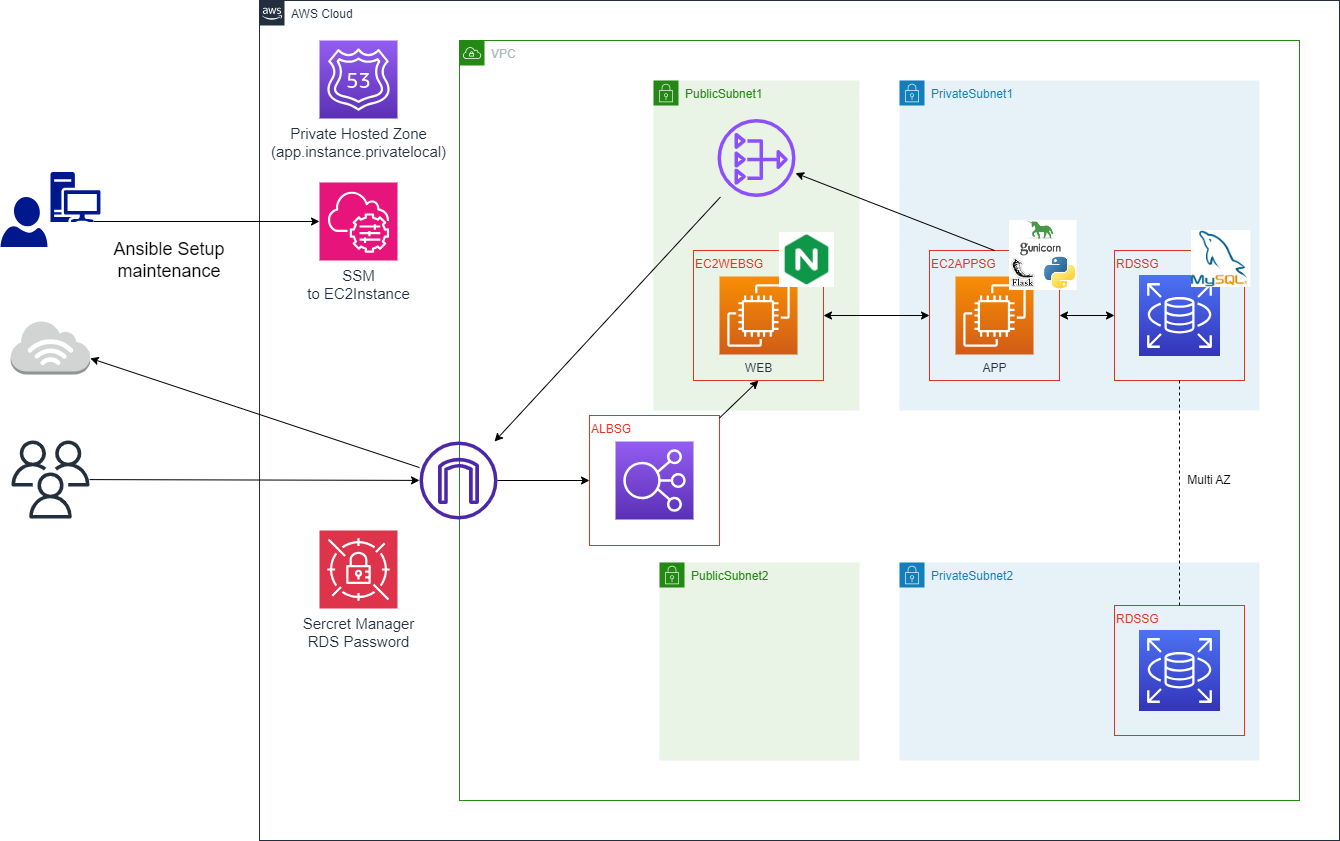
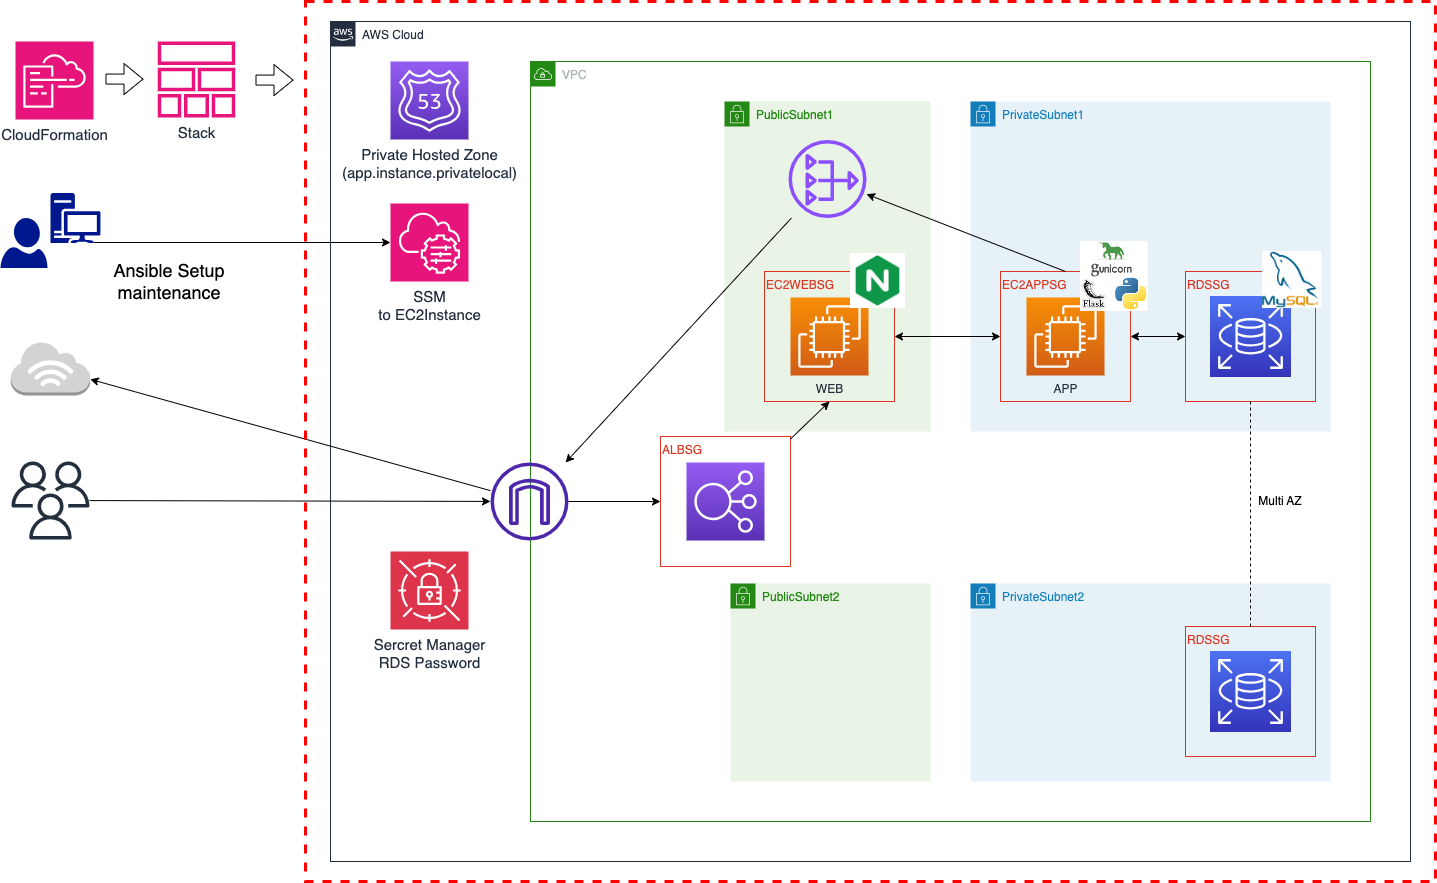
mdファイルの更新と構成図の修正

diff --git a/02-Ansible_APP_Deploy.md b/02-Ansible_APP_Deploy.md
@@ -57,201 +57,67 @@ RDSのみスタック実行時間を要するため分離。<br>
 [手動デプロイ](https://github.com/tomi050403/AWS_Portfolio/blob/main/01-APP_Deploy.md#%E3%82%A2%E3%83%97%E3%83%AA%E3%82%B1%E3%83%BC%E3%82%B7%E3%83%A7%E3%83%B3%E3%83%87%E3%83%97%E3%83%AD%E3%82%A4)にて実施した内容について、ansibleのplaybookを作成。<br>
 
 ## 準備
-### コントロールノードの準備（Ansible実行環境構築）
-pyenv poetry
-### EC2インスタンス（ターゲットノード）への接続設定
-通常ターゲットノードへの接続にssh接続を行うため、SGの許可設定などが必要になるが、ssm経由で実行可能な方法があったため、ssm経由でplaybookを実行する構成とする。
+### コントロールノード（Ansible実行環境構築）
 
-
-## デプロイ（およびRoles詳細）
-今回はsetup.ymlにplaybookを記載し、
-ディレクトリ構成
-setup.yml
-
-|roles||
+|||
 | :--- | :--- |
-|APP_01_Initial||
-|APP_02_Pyenv_Install||
-|APP_03_Python_install||
-|APP_04_Application_install_setup||
-|APP_05_Setup_Gunicorn||
+|OS| Amazon Linux 2 (Kernel 4.14.355)|
+|仮想化環境| Hyper-V (自宅サーバ)|
+|Ansible| v2.18.1|
+|Python|3.12 (pyenv + Poetry)|
 
-### 
-playbook
+### ターゲットノード（EC2インスタンス）への接続設定
+通常ansibleにてターゲットノードへssh接続するため、公開IPやSGの許可設定などが必要になるが、ssm経由で実行可能な方法があったため、ssm経由でplaybookを実行する構成とする。
+
+[hosts.ini](02-Ansible_APP_Deploy/02_ansible/inventoryes/hosts.ini)<br>
+
+上記箇所に下記のようにhosts.iniファイルを作成
+
+~~~
+[app_targetnode]
+EC2AppInstance ansible_host=<APPインスタンスID>
+
+[web_targetnode]
+EC2WebInstance ansible_host=<WEBインスタンスID>
+
+[all:vars]
+ansible_user='ec2-user'
+ansible_become=true
+ansible_ssh_private_key_file=<プロジェクト用keyfileパス>
+ansible_python_interpreter=/usr/bin/python3.9
+ansible_ssh_common_args=-o StrictHostKeyChecking=no -o ProxyCommand="sh -c \"aws ssm start-session --target %h --document-name AWS-StartSSHSession --parameters 'portNumber=%p'\""
+~~~
+
+## デプロイ
+### roles
+[手動デプロイ](01-APP_Deploy.md)にて実施した内容を下記のようにroles定義<br>
+
+|roles|手動デプロイ項番|対象|
+| :--- | :--- | :--- |
+|APP_01_Initial|01_Initial|APP|
+|APP_02_Pyenv_Install|02 pyenv-install|APP|
+|APP_03_Python_install|03_Python-install|APP|
+|APP_04_Application_install_setup|04_Application-install|APP|
+|APP_05_Setup_Gunicorn|05_Application-setup|APP|
+|WEB_01_Initial|01 set-up-websv|WEB|
+
+### vars
+[vars.yml](vars/vars.yml)<br>
+roles内で使用するユーザ名やファイルパス、アプリケーションバージョンなどの定義ファイル<br>
+[sec.yml](vars/sec.yml)<br>
+roles内で使用するDB情報など秘匿したい情報を定義したファイル<br>
+ansible-vault encrypt [ファイル名]コマンドにて暗号化している。<br>
+
+### 実行
+setup.ymlに上記内容のplaybookを記載し、下記コマンドで実行する。<br>
+
+~~~
+ansible-playbook -i inventoryes/hosts.ini setup.yml --ask-vault-pass
+~~~
 
 ## デプロイ後の確認
 
-
-## ⅰ APP-SV
-APPサーバへの設定
-## 01_Initial
-### 1 dnf update
-dnfのアップデート
-~~~
-sudo dnf update -y
-~~~
-
-### 2 Install-Dep-Packages
-必要パッケージのインストール
-~~~
-sudo dnf install -y git gcc zlib-devel bzip2-devel readline-devel sqlite sqlite-devel openssl-devel tk-devel libffi-devel xz-devel
-~~~
-
-## 02 pyenv-install
-### 1 clone pyenv
-pyenvのインストール
-~~~
-git clone https://github.com/pyenv/pyenv.git ~/.pyenv
-~~~
-
-### 2 Passing by pyenv
-#### 2-1 Add pyenv to the PATH
-pyenv利用のためパスを通す_1
-~~~
-echo 'export PATH="$HOME/.pyenv/bin:$PATH"' >> ~/.bashrc
-~~~
-
-#### 2-2 Add the pyenv init the shell
-pyenv利用のためパスを通す_2
-~~~
-echo 'eval "$(pyenv init -)"' >> ~/.bashrc
-~~~
-
-#### 2-3 Run source ~/.bashrc
-pyenv利用のためパスを通す_3
-~~~
-source ~/.bashrc
-~~~
-
-## 03_Python-install
-### 1 pyenv install
-python 3.12.1のインストール
-~~~
-pyenv install 3.12.1
-~~~
-### 2 pyenv global set
-python 3.12.1のグローバル設定
-~~~
-pyenv global 3.12.1
-~~~
-### 3 python version check
-python 3.12.1がグローバル設定されていることの確認
-~~~
-pyenv versions
-~~~
-
-### 4 Poetry install
-poetryインストール
-~~~
-curl -sSL https://install.python-poetry.org | python3 - --version 1.8.4
-~~~
-### 5 Poetry install check
-poetryバージョンチェック
-~~~
-poetry --version
-~~~
-
-## 04_Application-install
-### 1 clone application
-サンプルアプリケーションのインストール
-~~~
-git clone https://github.com/tomi050403/flask-app.git
-~~~
-
-## 05_Application-setup
-### 1 move directory
-プロジェクトディレクトリへ移動
-~~~
-cd flask-app
-~~~
-
-### 2 Setup env file
-サンプルアプリケーション用の.envファイル作成（.envについてはサンプルアプリケーションリポジトリ参照）
-[自作サンプルアプリケーション](https://github.com/tomi050403/flask-app.git)<br>
-~~~
-nano flaskr/.env
-~~~
-
-### 3 export FLASK_APP
-環境変数:FLASK_APPにアプリケーション名を設定
-~~~
-export FLASK_APP=flaskr
-~~~
-
-### 4 poetry install
-プロジェクトで利用されるpythonパッケージをインストール
-~~~
-poetry install
-~~~
-
-### 5 poetry shell
-仮想環境起動
-~~~
-poetry shell
-~~~
-
-### 6 frusk-run
-flask runコマンドでアプリケーション動作確認
-~~~
-flask run -h 0.0.0.0
-~~~
-
-## Flask接続確認
-
-### CFnにて作成したAppServerのパブリックIPを確認。
-![image](/01-APP_Deploy/01-Figure/01_app_ip.png)  <br>
-### EC2Appにブラウザ接続し、起動出来ていることを確認
-![image](/01-APP_Deploy/01-Figure/02_app_flaskrun.png)  <br>
-
-
-## 続けてapサーバとwebサーバを分離する。<br>06_Set-up-gunicorn
-### 1 gunicorn install
-gunicornのインストール
-~~~
-poetry add gunicorn
-~~~
-
-### 2 gnicorn run
-アプリケーションの起動
-~~~
-gunicorn -b 0.0.0.0 flaskr:app
-~~~
-
-## ⅱ WEB-SV
-WEBサーバへの設定
-## 01 set-up-websv
-### 1 nginx install
-nginxのインストール
-~~~
-sudo dnf -y install nginx
-~~~
-
-### 2 set up nginx config
-nginx設定ファイルの作成
-~~~
-sudo nano /etc/nginx/conf.d/flask-app.conf
-~~~
-
-下記のように作成。
-```nginx
-server {
-    listen 80;
-    server_name app.instance.privatelocal;
-
-    location / {
-        proxy_pass http://app.instance.privatelocal:8000;
-        proxy_http_version 1.1;
-        proxy_set_header Host $host;
-    }
-}
-```
-
-
-### 3 Start nginx
-nginx起動
-~~~
-sudo systemctl start nginx.service
-~~~
+実行結果
 
 # Gunicorn接続確認
 
